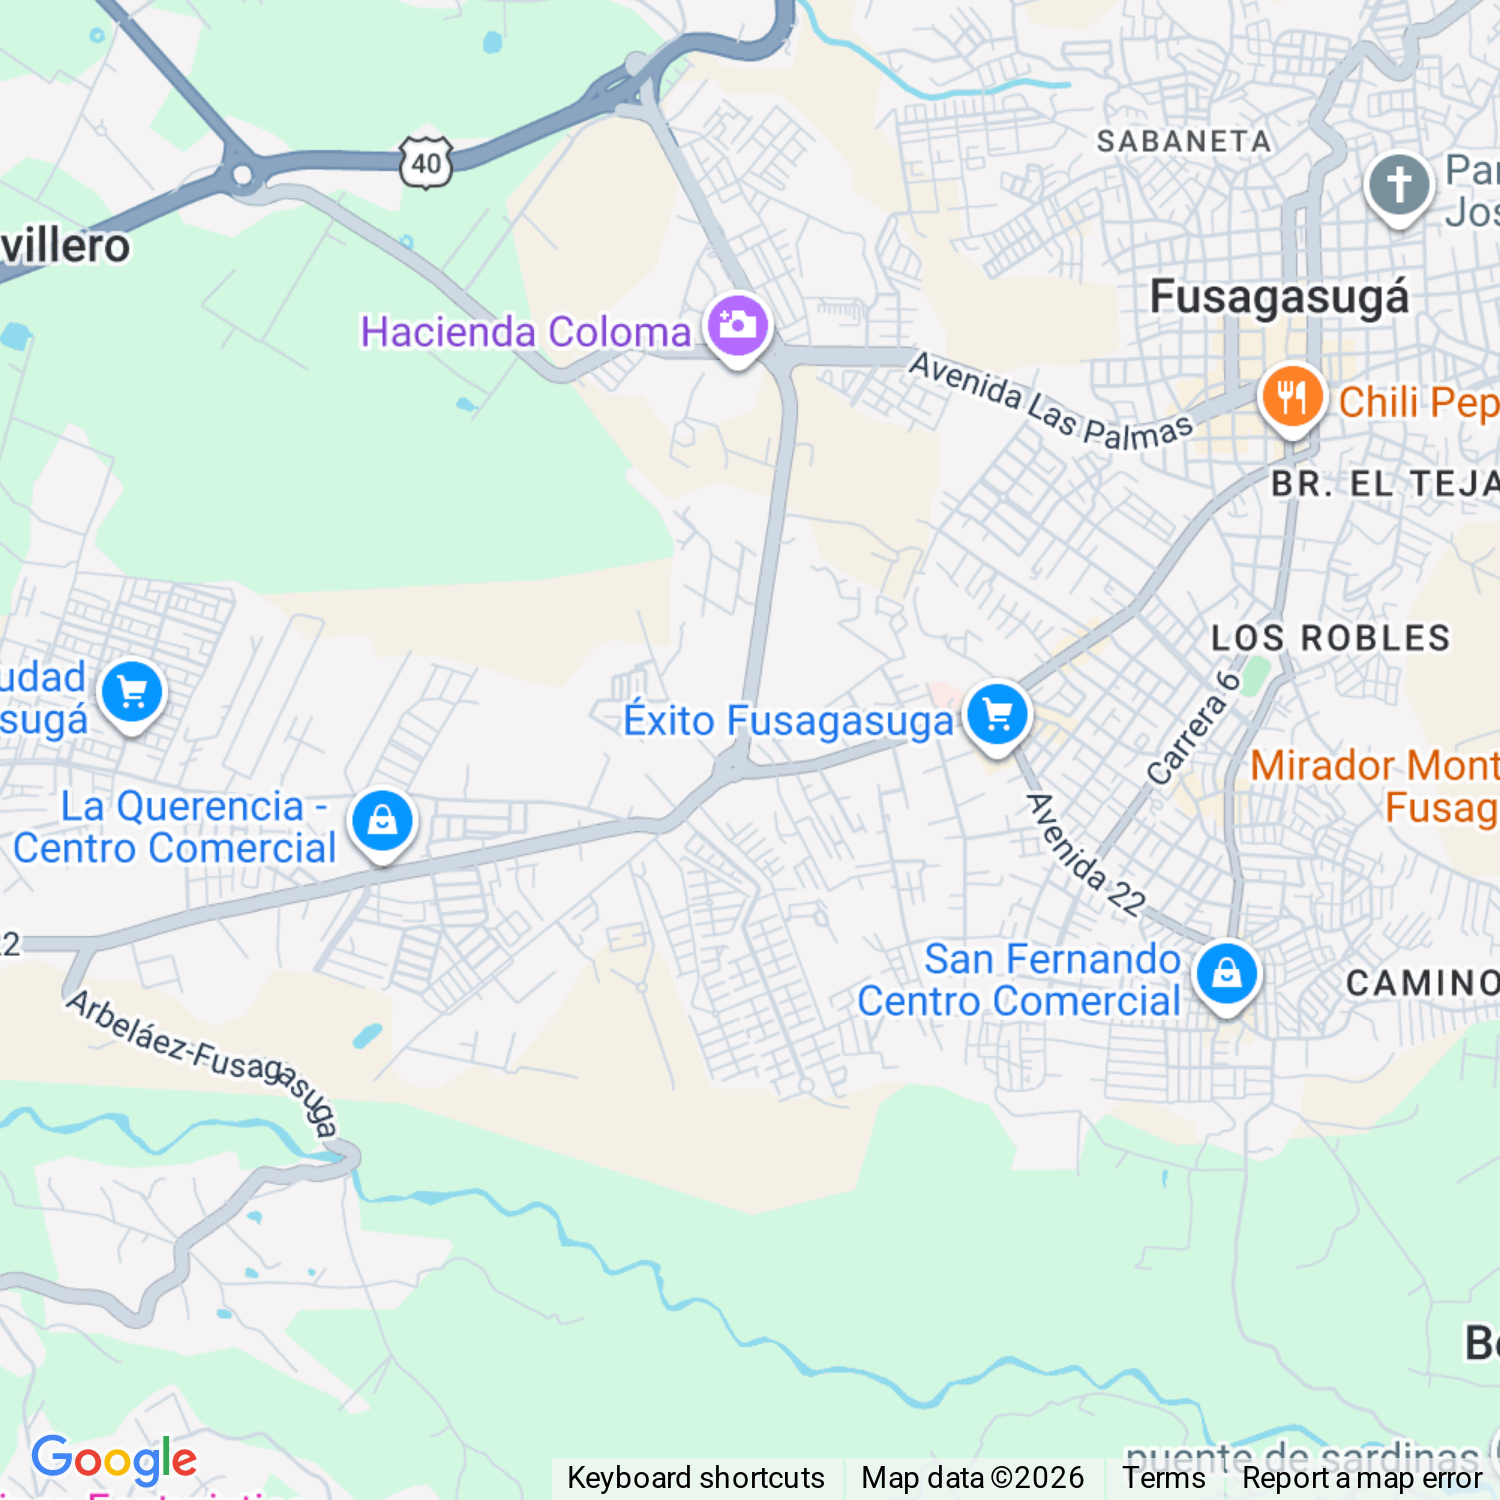
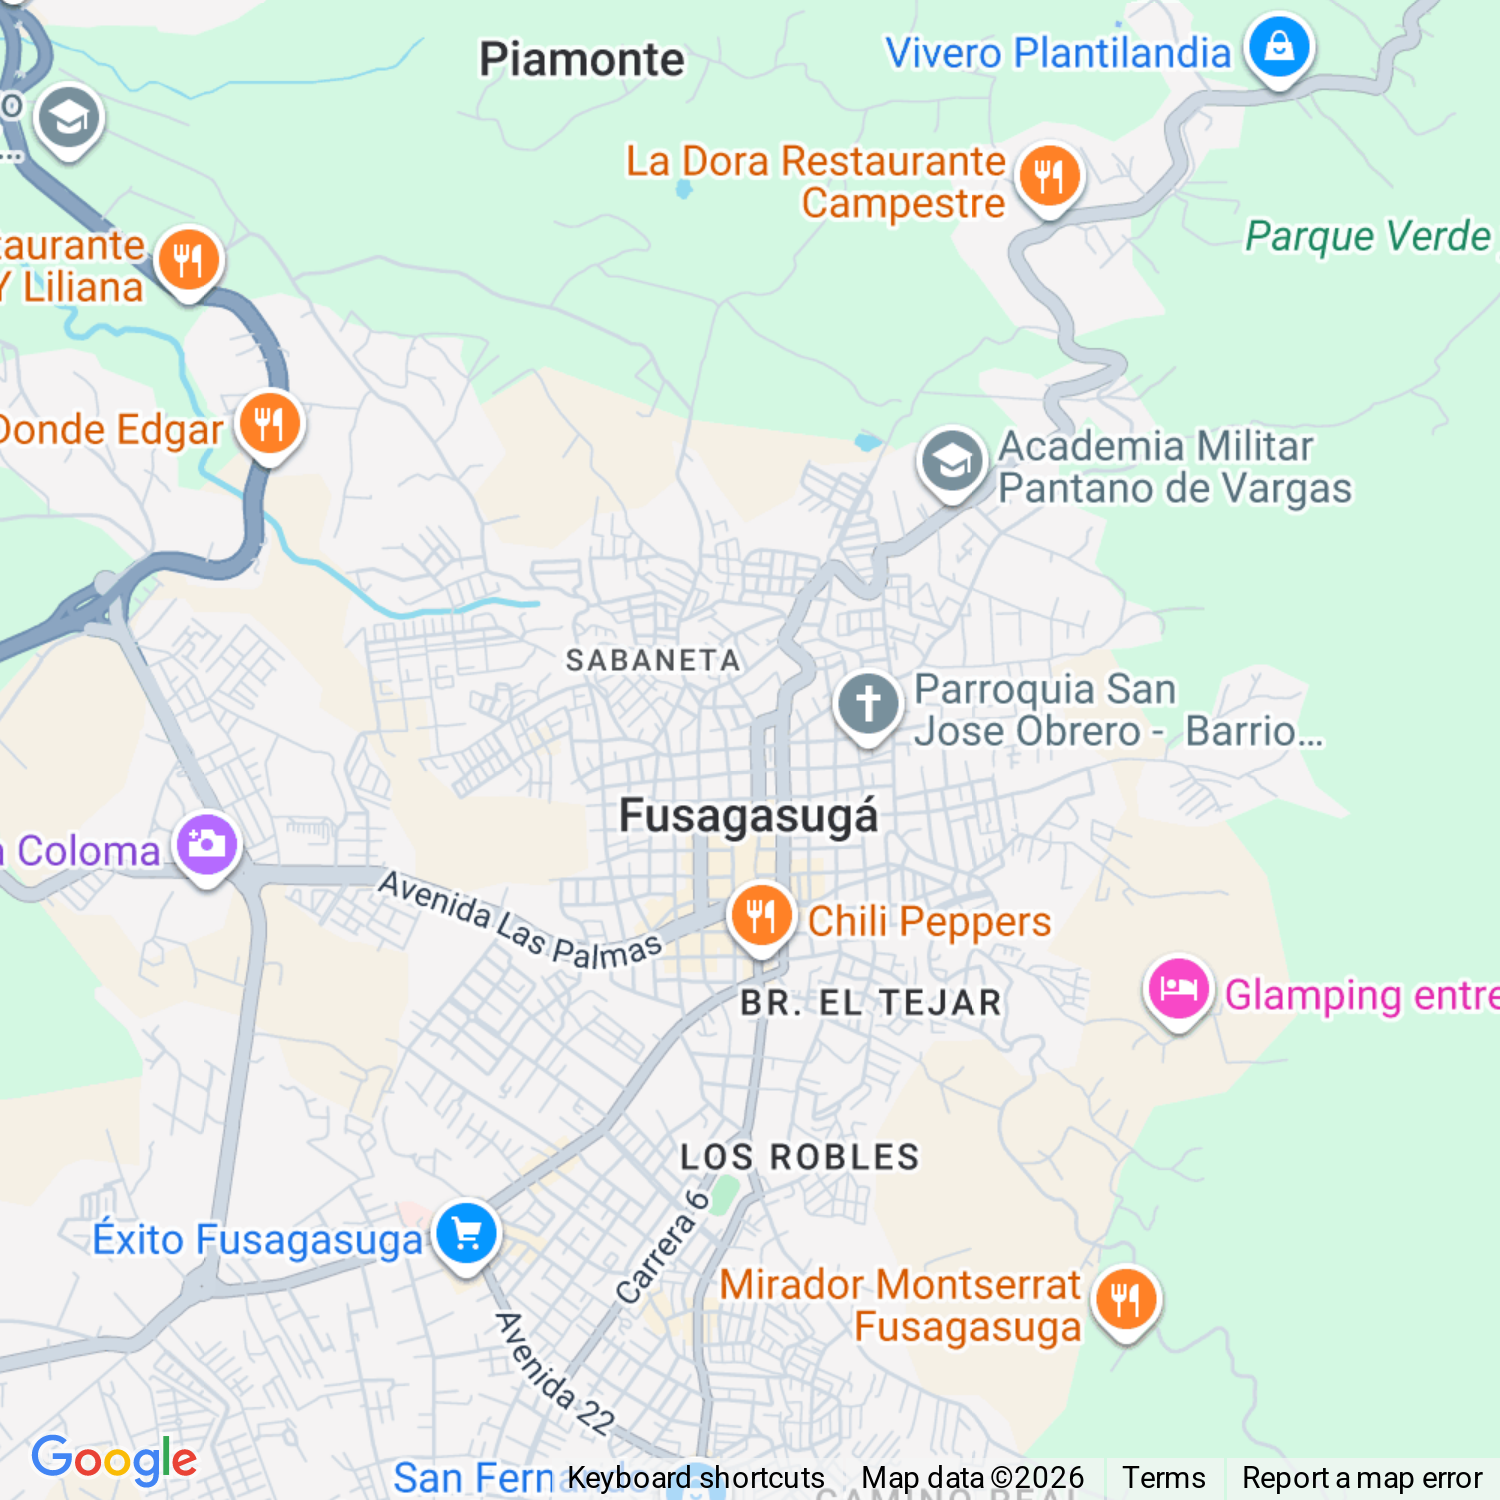
Segundo commit

diff --git a/src/sections/Education.jsx b/src/sections/Education.jsx
@@ -1,0 +1,152 @@
+import { motion } from "framer-motion"
+import udecLogo from "../assets/Udec.png";
+import MinTIC from "../assets/MinTIC.png";
+import Platzi from "../assets/Platzi.png";
+
+const educationData = [
+  {
+    title: "Universidad De Cundinamarcar",
+    subtitle: "UDEC",
+    date: "2020 - 2024",
+    description: "Ingeniero electrónico",
+    image: udecLogo,
+  },
+  {
+    title: "El Ministerio de Tecnologías de la Información y las Comunicaciones de Colombia",
+    subtitle: "MinTIC",
+    date: "2025",
+    description: "Bootcamp Inteligencia Artificial",
+    image: MinTIC,
+  },
+  {
+    title: "Platzi",
+    subtitle: "Inteligencia Para La Ciberseguridad",
+    date: "2024",
+    description: "Análisis de amenazas, OSINT y uso de herramientas como Shodan, FOCA y Maltego",
+    image: Platzi,
+  },
+  {
+    title: "Platzi",
+    subtitle: "Hacking Etico",
+    date: "2024",
+    description:
+      "Pentesting, análisis de vulnerabilidades, phishing, sniffing y seguridad ofensiva",
+    image: Platzi,
+  },
+]
+
+export default function Education() {
+  return (
+    <section className="w-full py-14 px-6">
+      <div className="max-w-7xl mx-auto">
+        {/* TITULO */}
+        <motion.div
+          initial={{ opacity: 0, y: 30 }}
+          whileInView={{ opacity: 1, y: 0 }}
+          transition={{ duration: 0.6 }}
+          viewport={{ once: true }}
+          className="flex items-center justify-center gap-4 mb-16"
+        >
+          <h2 className="text-5xl md:text-6xl font-bold text-white">
+            Educación
+          </h2>
+        </motion.div>
+
+        {/* GRID */}
+        <div className="grid grid-cols-1 md:grid-cols-2 gap-8">
+          {educationData.map((item, index) => (
+            <motion.div
+              key={index}
+              initial={{ opacity: 0, y: 40 }}
+              whileInView={{ opacity: 1, y: 0 }}
+              transition={{ delay: index * 0.1 }}
+              viewport={{ once: true }}
+              whileHover={{ y: -4 }}
+              className="
+                group
+                relative
+                overflow-hidden
+                rounded-[32px]
+                border
+                border-white/10
+                bg-white/5
+                p-8
+                min-h-[200px]
+                transition-all
+                duration-500
+                hover:border-blue-500/30
+                hover:bg-white/[0.07]
+                hover:shadow-[0_0_45px_rgba(59,130,246,0.15)]
+              "
+            >
+              {/* IMAGEN FONDO */}
+              <img
+                src={item.image}
+                alt={item.title}
+                className="
+                  absolute
+                  bottom-0
+                  right-0
+                  w-52
+                  h-70
+                  opacity-[0.07]
+                  object-contain
+                  pointer-events-none
+                  transition-all
+                  duration-700
+                  group-hover:scale-110
+                  group-hover:opacity-[0.12]
+                "
+              />
+
+              {/* GLOW */}
+              <div
+                className="
+                  absolute
+                  inset-0
+                  opacity-0
+                  group-hover:opacity-100
+                  transition-all
+                  duration-700
+                  bg-gradient-to-br
+                  from-blue-500/10
+                  via-transparent
+                  to-purple-500/10
+                  pointer-events-none
+                "
+              />
+
+              {/* CONTENIDO */}
+              <div className="relative z-10 h-full flex flex-col justify-between">
+                {/* HEADER */}
+                <div className="flex justify-between gap-6">
+                  <div>
+                    <h3 className="text-3xl font-bold text-white leading-tight">
+                      {item.title}
+                    </h3>
+
+                    <p className="text-zinc-400 text-2xl mt-1">
+                      {item.subtitle}
+                    </p>
+                  </div>
+
+                  <p className="text-zinc-500 whitespace-nowrap text-lg">
+                    {item.date}
+                  </p>
+                </div>
+
+                {/* DESCRIPCION */}
+                <div className="mt-10">
+                  <p className="text-zinc-200 text-xl leading-relaxed whitespace-pre-line">
+                    {item.description}
+                  </p>
+                </div>
+              </div>
+            </motion.div>
+          ))}
+        </div>
+      </div>
+    </section>
+  )
+}
+

diff --git a/src/sections/Hero.jsx b/src/sections/Hero.jsx
@@ -51,14 +51,38 @@ function Hero() {
 
         {/* CARD PRINCIPAL */}
         <motion.div
-          initial={{ opacity: 0, y: 40 }} animate={{ opacity: 1, y: 0 }} transition={{ duration: 0.6 }}
-          className="md:col-span-2 md:row-span-2 bg-white/5 border border-white/10 rounded-[20px] p-10 backdrop-blur-xl flex flex-col items-center justify-center text-center"
+          initial={{ opacity: 0, y: 40 }} 
+          animate={{ opacity: 1, y: 0 }} 
+          transition={{ duration: 0 }}
+          whileHover={{ y: -5 }}
+          className="group relative md:col-span-2 md:row-span-2 bg-gradient-to-br from-white/10 to-white/5 border border-white/10 rounded-[20px] p-10 backdrop-blur-xl flex flex-col items-center justify-center text-center overflow-hidden hover:border-blue-500/30 hover:shadow-[0_0_50px_rgba(59,130,246,0.15)] transition-all duration-500"
         >
-          <div className="w-1 h-15 rounded-full bg-gradient-to-br from-blue-500/30 to-purple-500/30 flex items-center justify-center text-6xl mb-8 shadow-2xl">
-            👨🏽💻
+          {/* Luz de fondo ambiental (Sutil) */}
+          <div className="absolute -top-24 -left-24 w-48 h-48 bg-blue-500/10 rounded-full blur-[80px] group-hover:bg-blue-500/20 transition-colors duration-500" />
+          <div className="absolute -bottom-24 -right-24 w-48 h-48 bg-purple-500/10 rounded-full blur-[80px] group-hover:bg-purple-500/20 transition-colors duration-500" />
+
+          {/* Contenedor del Avatar/Emoji */}
+          <div className="relative mb-8">
+            <div className="absolute inset-0 bg-gradient-to-br from-blue-500 to-purple-500 rounded-full blur-2xl opacity-20 group-hover:opacity-40 transition-opacity duration-500" />
+            <div className="relative w-24 h-24 rounded-full bg-white/5 border border-white/10 flex items-center justify-center text-6xl shadow-2xl backdrop-blur-sm">
+              👨🏽💻
+            </div>
           </div>
-          <h1 className="text-4xl md:text-5xl font-bold mb-4 text-white">Rafael Martínez</h1>
-          <p className="text-zinc-400 text-xl">Fullstack Developer</p>
+
+          {/* Texto Principal */}
+          <div className="relative z-10">
+            <h1 className="text-4xl md:text-5xl font-bold mb-2 text-white tracking-tight">
+              Rafael Martínez
+            </h1>
+            
+            {/* Badge de Rol */}
+            <div className="inline-flex items-center px-3 py-1 rounded-full bg-blue-500/10 border border-blue-500/20 mt-2">
+              <div className="w-2 h-2 rounded-full bg-blue-500 animate-pulse mr-2" />
+              <span className="text-blue-400 text-sm font-medium tracking-wide uppercase">
+                Fullstack Developer
+              </span>
+            </div>
+          </div>
         </motion.div>
 
         {/* REDES */}
@@ -85,9 +109,9 @@ function Hero() {
         {/* CV */}
         <motion.div
           initial={{ opacity: 0, y: 40 }} animate={{ opacity: 1, y: 0 }} transition={{ delay: 0.2 }} whileHover={{ y: -4 }}
-          className="group relative overflow-hidden rounded-[20px] border border-white/10 bg-white/5 flex items-center justify-center hover:border-blue-500/30 hover:shadow-[0_0_45px_rgba(59,130,246,0.18)]"
+          className="group relative overflow-hidden rounded-[20px] border border-white/10 bg-white/5 flex items-center justify-center hover:border-blue-500/30 hover:bg-white/[0.07] hover:shadow-[0_0_45px_rgba(59,130,246,0.18)]"
         >
-          <img src={cvPreview} alt="CV Preview" className="absolute inset-0 w-full h-full object-top scale-105 blur-[0.5px] opacity-80 group-hover:scale-100 group-hover:blur-[1px]" />
+          <img src={cvPreview} alt="CV Preview" className="absolute inset-0 w-full h-full object-top scale-105 blur-[0.5px] opacity-50 group-hover:scale-100 group-hover:blur-[1px]" />
           <div className="absolute inset-0 bg-black/20 backdrop-blur-[1px]" />
           <div className="absolute inset-0 opacity-0 group-hover:opacity-100 bg-gradient-to-br from-blue-500/10 via-transparent to-purple-500/10" />
           <div className="relative z-10">
@@ -114,11 +138,11 @@ function Hero() {
           initial={{ opacity: 0, y: 40 }} 
           animate={{ opacity: 1, y: 0 }} 
           transition={{ delay: 0.4 }}
-          className="group relative md:col-span-2 bg-white/5 border border-white/10 rounded-[20px] p-10 flex items-center text-left overflow-hidden"
+          className="group relative md:col-span-2 bg-gradient-to-br from-white/10 to-white/5 border border-white/10 hover:border-blue-500/30 hover:shadow-[0_0_45px_rgba(59,130,246,0.18)] rounded-[20px] p-10 flex items-center text-left overflow-hidden "
         >
           <div className="absolute inset-0 opacity-0 group-hover:opacity-100 bg-gradient-to-br from-blue-500/10 via-transparent to-purple-500/10 pointer-events-none" />
-          <p className="relative z-10 text-2xl md:text-lg leading-relaxed font-medium tracking-tight text-zinc-100 italic selection:bg-blue-500/30">
-            Desarrollador de Software con experiencia en el <span className="text-white font-semibold">diseño</span>, <span className="text-white font-semibold">desarrollo</span> e <span className="text-white font-semibold">integración</span> de aplicaciones multiplataforma.
+          <p className="relative z-10 text-base md:text-base leading-[1.4] font-normal tracking-normal text-zinc-200 antialiased">
+            Desarrollador de Software con experiencia en el <span className="text-white font-medium">diseño</span>, <span className="text-white font-medium">desarrollo</span> e <span className="text-white font-medium">integración</span> de aplicaciones multiplataforma.
           </p>
         </motion.div>
 
@@ -127,28 +151,28 @@ function Hero() {
           initial={{ opacity: 0, y: 40 }}
           animate={{ opacity: 1, y: 0 }}
           transition={{ delay: 0.5 }}
-          className="group relative overflow-hidden bg-white/5 border border-white/10 rounded-[20px] flex items-center justify-center cursor-pointer"
+          className="group relative overflow-hidden bg-gradient-to-br from-white/10 to-white/5 border border-white/10 hover:border-blue-500/30 hover:shadow-[0_0_45px_rgba(59,130,246,0.18)] rounded-[20px] flex items-center justify-center cursor-pointer"
         >
           <motion.div 
-            whileHover={{ scale: 1.5 }}
-            transition={{ duration: 0.2, ease: "easeOut" }}
+            whileHover={{ scale: 4.0, rotate: 360 }}
+            transition={{ duration: 0.1, ease: "easeOut" }}
             className="absolute inset-0 w-full h-full"
           >
             <img 
               src={mapaBogota} 
-              alt="Ubicación Bogotá"
+              alt="Ubicación Fusagasugá"
               className="w-full h-full object-cover opacity-90 group-hover:grayscale-0 group-hover:opacity-100 transition-all duration-700"
             />
           </motion.div>
 
           <div className="absolute inset-0 bg-gradient-to-t from-black/50 to-transparent pointer-events-none" />
 
-          <div className="relative z-10 flex flex-col items-center gap-2">
+          {/* Agregamos pointer-events-none aquí para que no interfiera con el hover del mapa */}
+          <div className="relative z-10 flex flex-col items-center gap-2 pointer-events-none">
             <div className="relative">
               <div className="absolute inset-0 bg-blue-500 rounded-2xl blur-xl opacity-40 animate-pulse" />
               
-              {/* USANDO IMAGEN SVG PARA LA BANDERA (Solución al error del emoji) */}
-              <div className="relative backdrop-blur-md p-2 rounded-2xl shadow-2xl overflow-hidden flex items-center justify-center w-14 h-10">
+              <div className="relative backdrop-blur-md p-2 rounded-2xl shadow-2xl overflow-hidden flex items-center justify-center w-14 h-9">
                 <img 
                   src="https://flagcdn.com/co.svg" 
                   alt="Colombia Flag" 
@@ -156,12 +180,7 @@ function Hero() {
                 />
               </div>
             </div>
-            
-            <p className="text-[10px] uppercase tracking-[0.2em] text-white font-bold drop-shadow-md">
-              Fusagasugá
-            </p>
           </div>
-
           <div className="absolute inset-0 border border-transparent group-hover:border-blue-500/30 rounded-[20px] transition-colors duration-500 pointer-events-none" />
         </motion.div>
       </div>

diff --git a/src/App.jsx b/src/App.jsx
@@ -5,6 +5,7 @@ import Skills from "./sections/Skills"
 import Experience from "./sections/Experience"
 import Projects from "./sections/Projects"
 import Contact from "./sections/Contact"
+import Education from "./sections/Education"
 
 function App() {
   return (
@@ -12,9 +13,10 @@ function App() {
       <Navbar />
       <Hero />
       <Projects />
-      <About />
-      <Skills />
       <Experience />
+      <Education />
+      <Skills />
+      <About />
       <Contact />
     </main>
   )